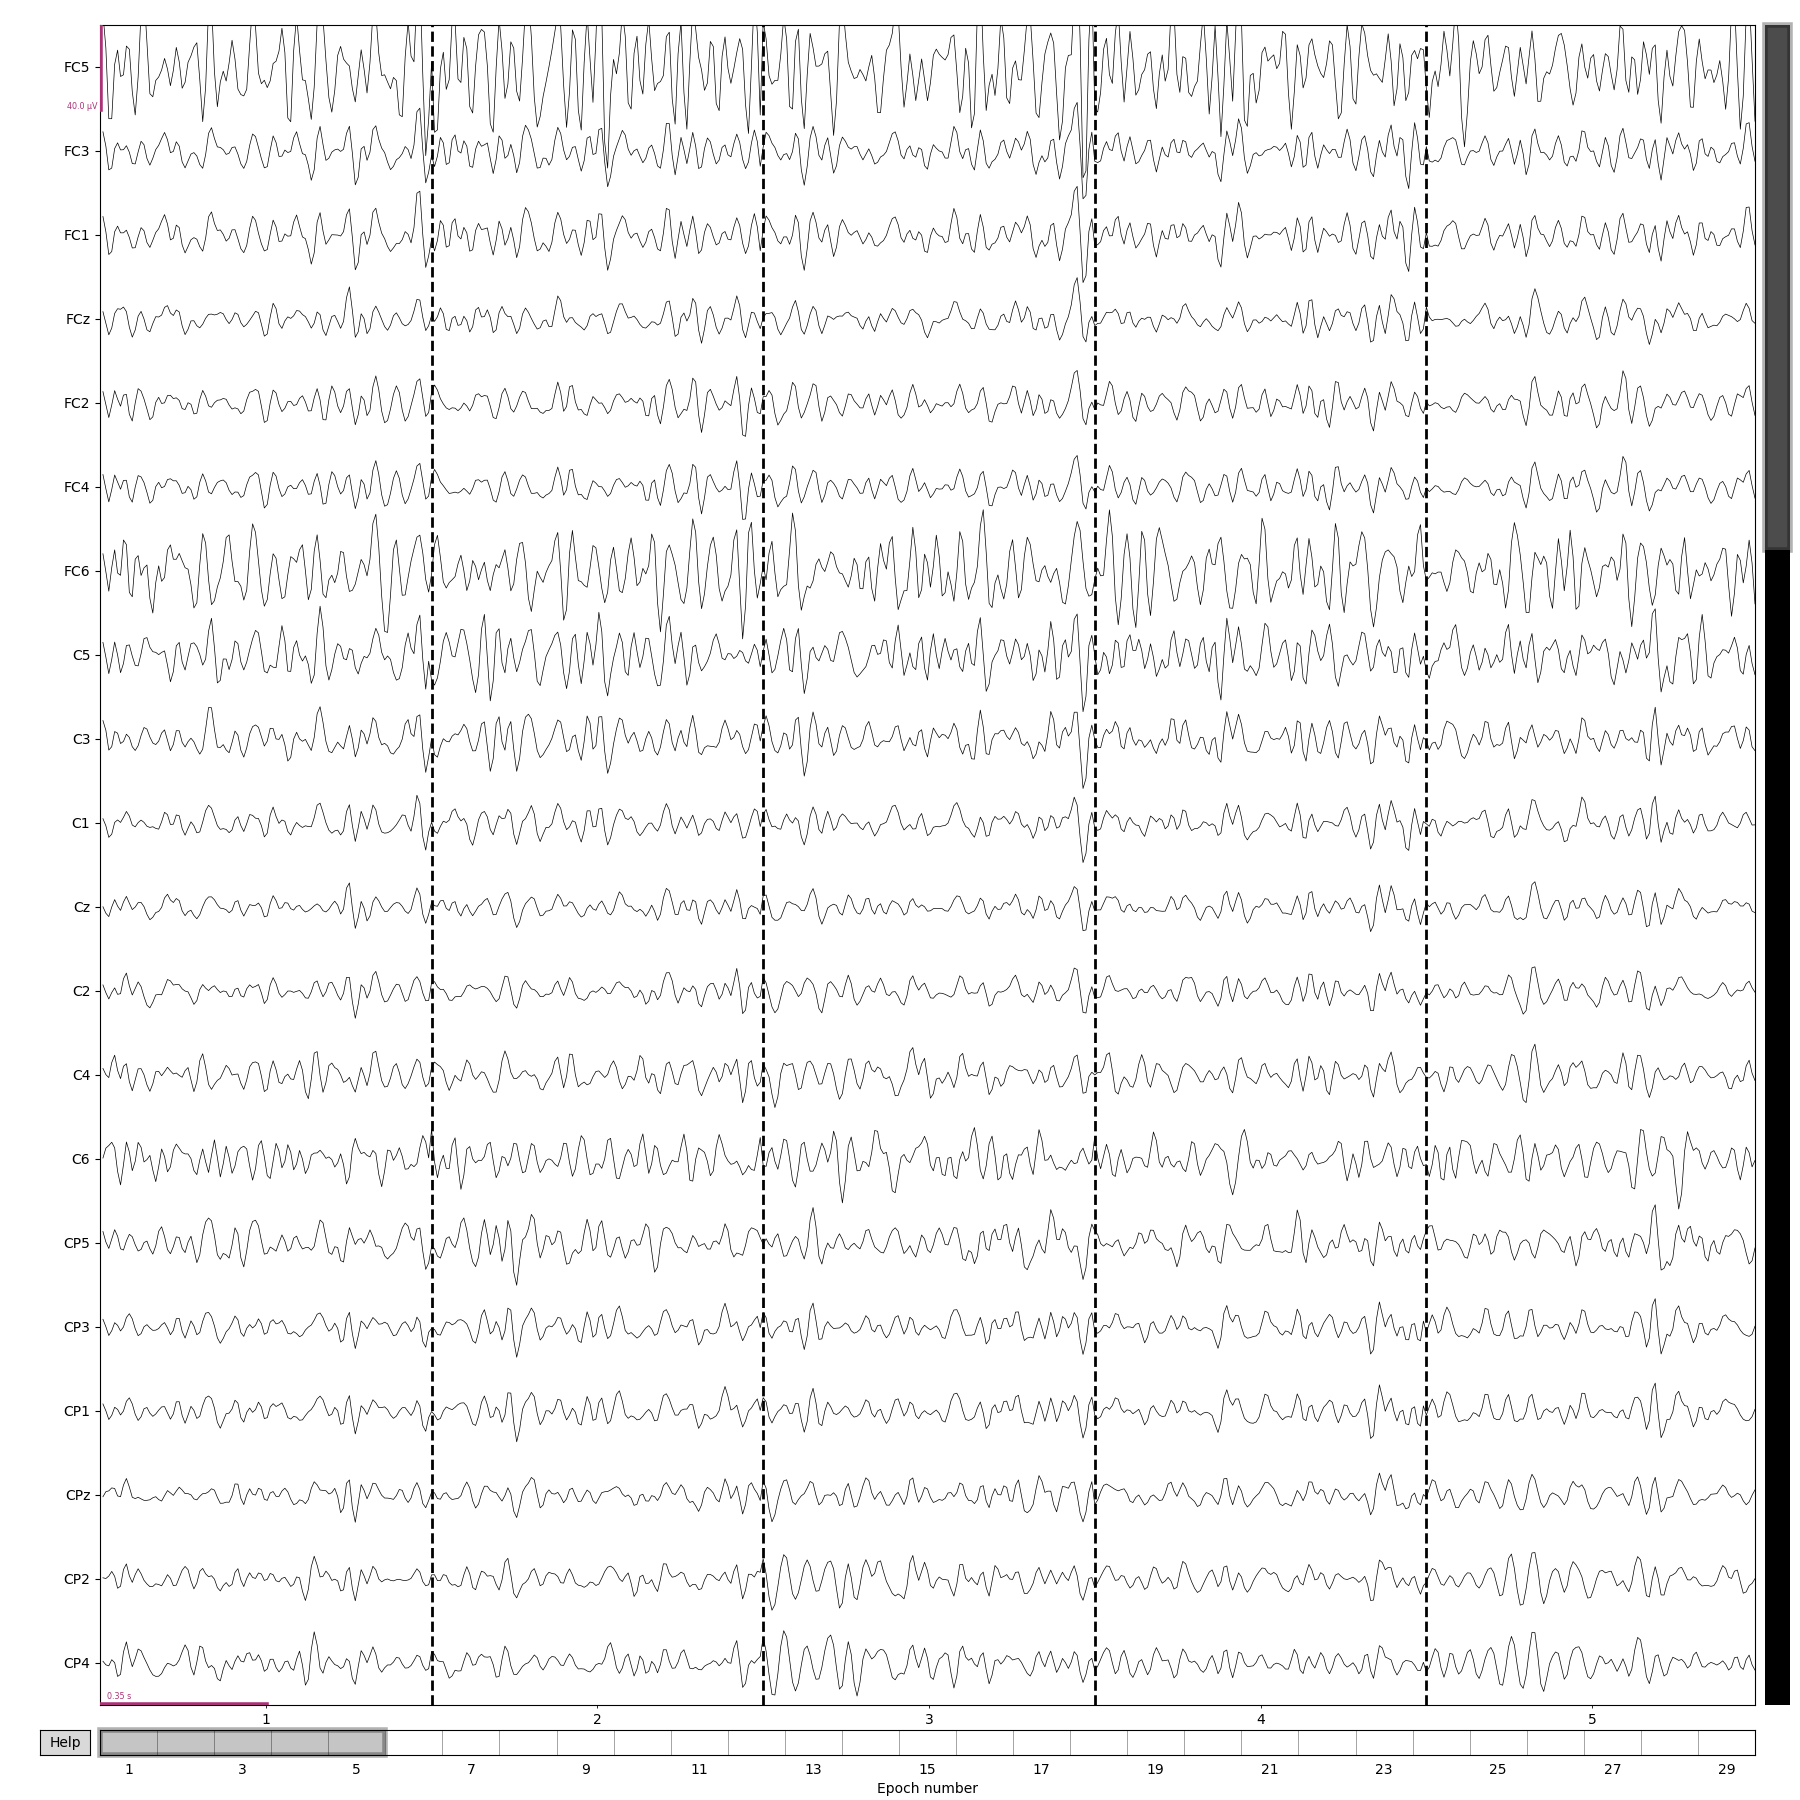
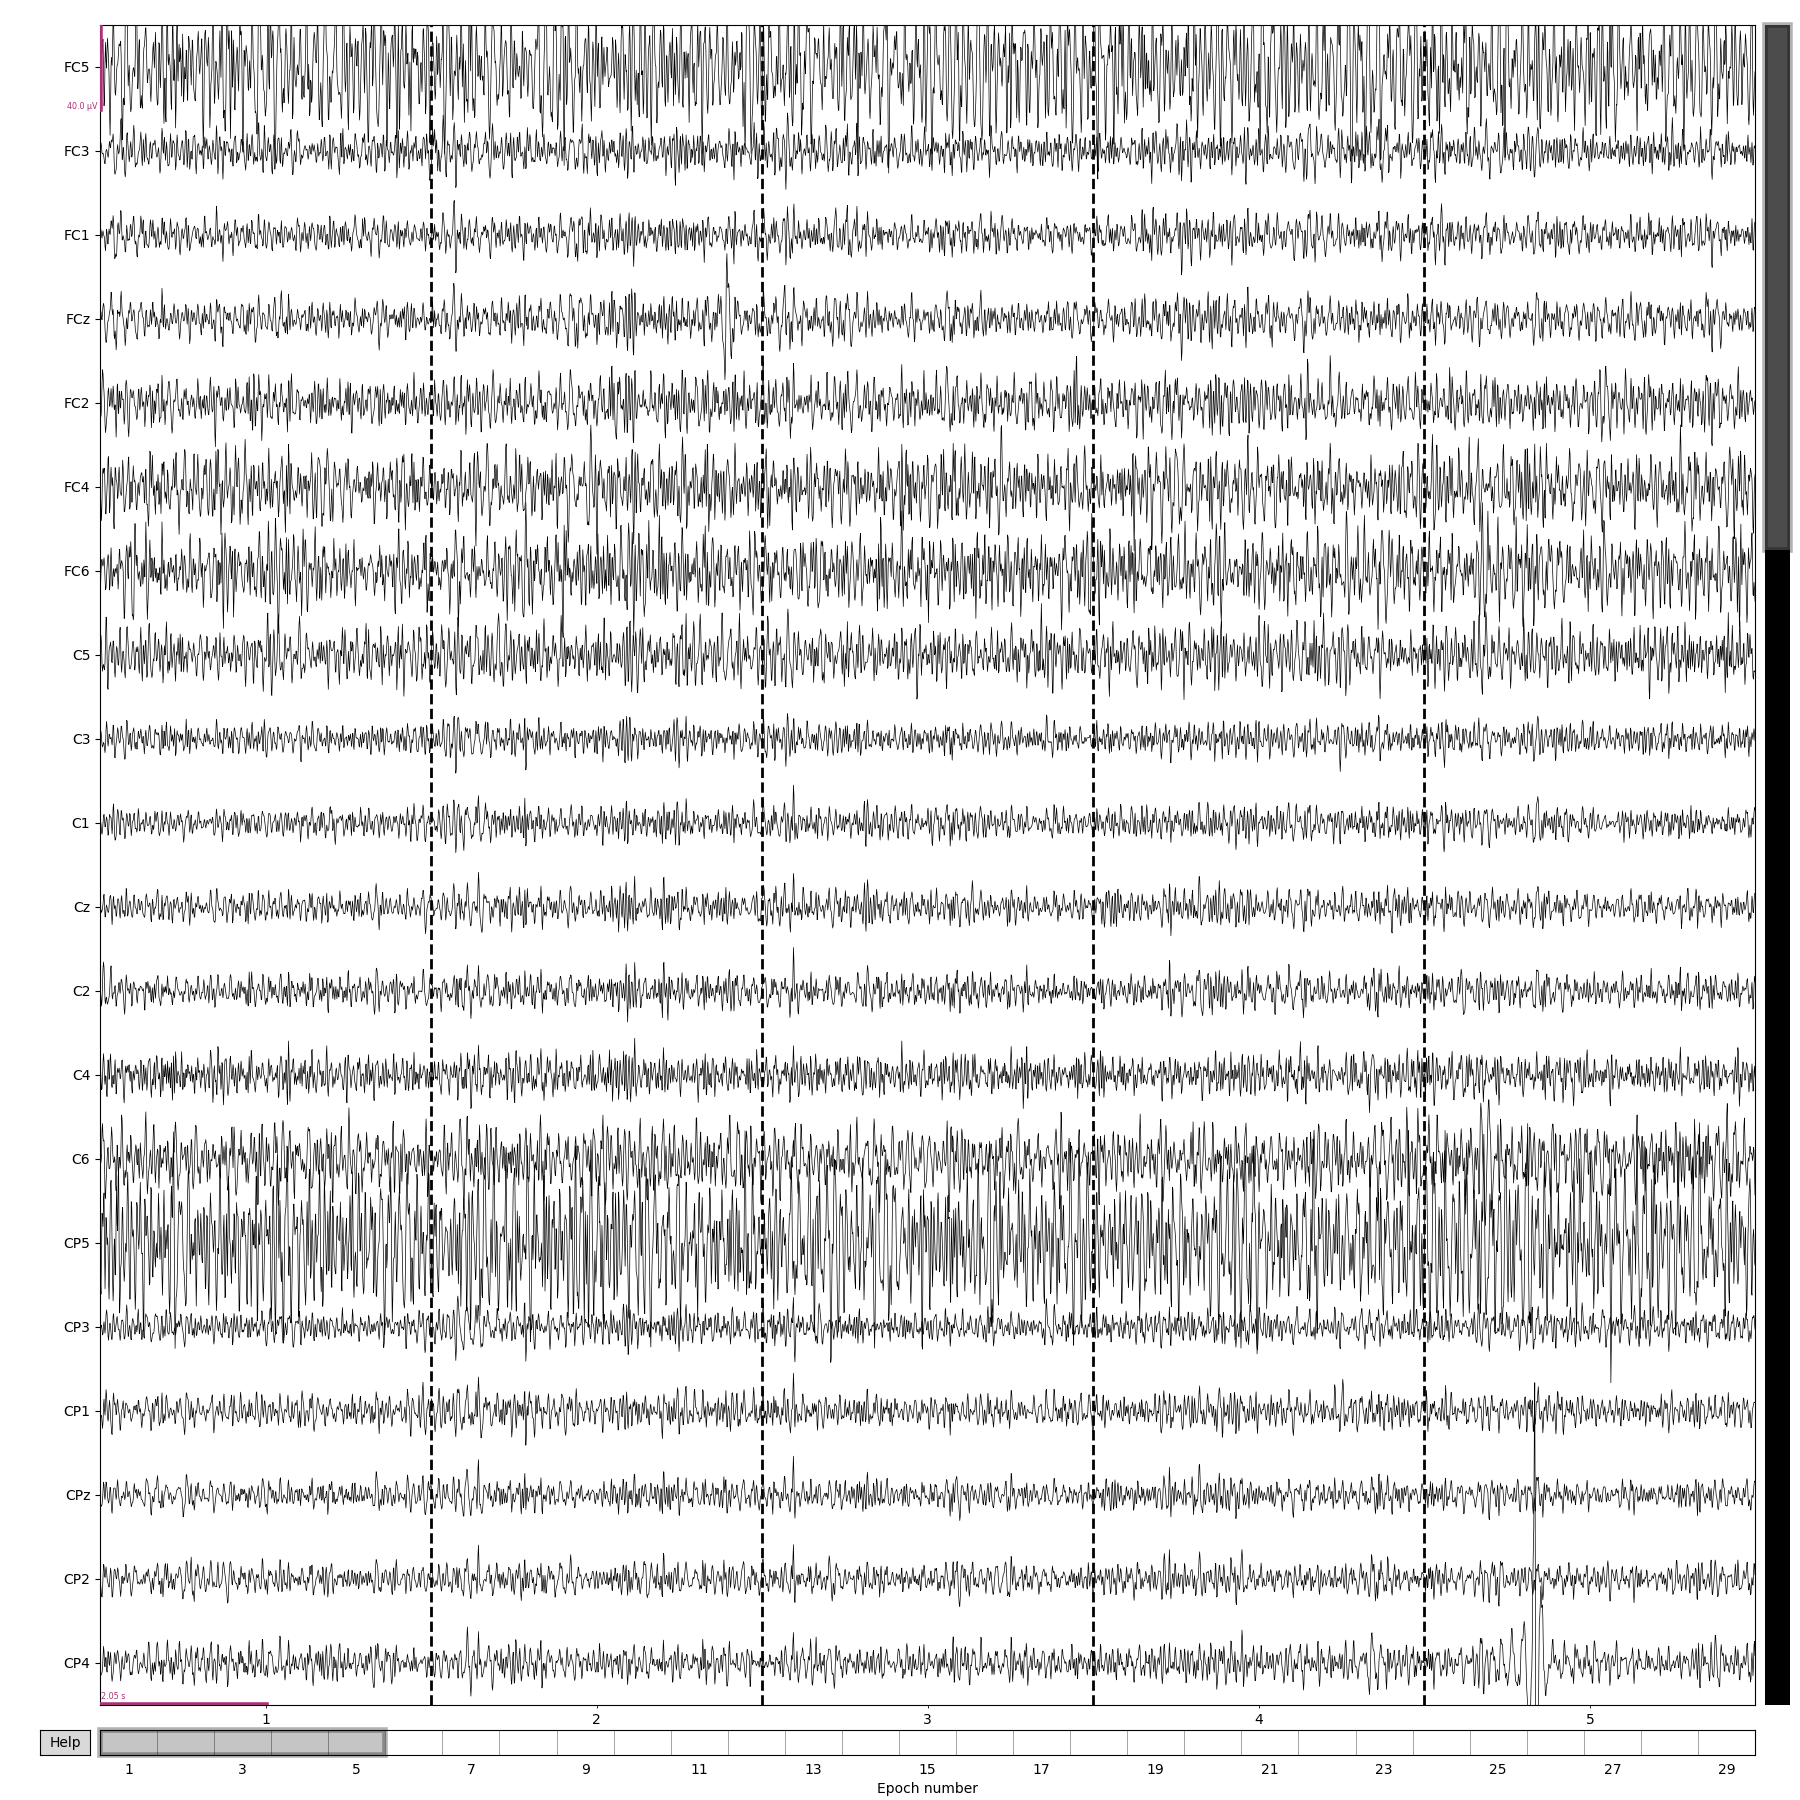
on pipeline

Changed region(s): [[0.0311, 0.0, 0.9956, 0.7467], [0.0622, 0.8711, 0.9956, 0.9333], [0.0622, 0.7778, 0.9644, 0.84]]

diff --git a/preprocess.py b/preprocess.py
@@ -1,13 +1,11 @@
-import matplotlib.pyplot as plt
 import numpy as np
 import mne
-
+from utils import open_subject, describe_data
 
 class DataLoader:
-    def __init__(self, file_path, inspect=False):
-        self.file_path = file_path
-        raw = mne.io.read_raw_edf(self.file_path, preload=True)
-        # print("raw: ", raw.info)
+    def __init__(self, subject, run, inspect=False):
+        raw = open_subject(subject, run)
+        self.raw = raw
         self.data = raw.get_data()
         self.channel_names = raw.ch_names
         self.sampling_rate = raw.info['sfreq']
@@ -16,27 +14,12 @@ class DataLoader:
         self.n_channels = len(self.channel_names)
         self.epochs = None
         self.events = None
-        self.y = None
-        if inspect:          
-            raw.plot(duration=60, n_channels=self.n_channels, proj=False, scalings='auto', remove_dc=True)
-            print("n_channels:", self.n_channels)
-            print("channel names:", self.channel_names)
-            print("sampling rate:", self.sampling_rate)
-            print("time shape:", self.time)
-            print("time shape 2:", raw.times)
-            print("data shape:", self.data.shape)
-            print("RAW ANOTAION: ", raw.annotations)
-            print("without montage", raw.info['chs'][0])
-            self.inspect_annotations(raw.annotations)
-        self.preprocess(self.data) # or raw ?
-        self.set_events_epochs()
+        self.labels = None
+        self.preprocess(raw)
+        self.set_events_epochs(raw)
         self.features = self.compute_frequency_domain()
-
-
-    def inspect_annotations(self, annotations):
-        print("Annotations:", annotations)
-        for annot in annotations:
-            print(f"  Onset: {annot['onset']}, Duration: {annot['duration']:.2f}s, Description: {annot['description']}")
+        if inspect:          
+            describe_data(self)
 
 
     def preprocess(self, raw):
@@ -46,36 +29,29 @@ class DataLoader:
         """
         raw.rename_channels({ch: ch.strip('.').upper().replace('Z', 'z').replace('FP', 'Fp') for ch in raw.ch_names})
         raw.set_montage('standard_1020')
-        fig = raw.plot_sensors(show_names=True, show=False)
-        plt.savefig("images/montage_plt.png")
-        plt.close(fig)
-        print("with montage ", raw.info['chs'][0])
 
         self.filtered = raw.copy()
         self.filtered.filter(l_freq=8, h_freq=40)
         self.filtered.notch_filter(freqs=60)
         self.filtered.set_eeg_reference('average')
-        print("Filtered data shape:", self.filtered.get_data().shape)
 
 
-    def set_events_epochs(self):
+    def set_events_epochs(self, raw):
         """
         Find events and extract epochs.
         """
         events, event_id = mne.events_from_annotations(raw)
-        print("Event IDs:", event_id)
-        print("First 5 events:", events[:5])
         epochs = mne.Epochs(
             self.filtered,
             events,
+            tmin=-0.1,
+            tmax=4.0,
             event_id=event_id,
             baseline=None,
             preload=True
         )
         self.epochs = epochs
-        print("Epochs info:", epochs.info)
-        self.y = epochs.events[:, 2]
-        print("Epochs data shape:", epochs.get_data().shape)
+        self.labels = epochs.events[:, 2]
 
 
     def compute_frequency_domain(self):
@@ -97,21 +73,19 @@ class DataLoader:
                 window='hann',
             )
             features.append(psd)
-            print("PSD shape:", psd.shape)
-            print("PSD:", psd)
 
         return np.array(features)
 
 
-def save_features_labels(self):
-    """
-    Save extracted features and labels to .npy files.
-    """
-    x = self.features
-    print("Extracted features shape:", x.shape)
-    y = self.y
-    np.save("data/X_train.npy", x)
-    np.save("data/y_train.npy", y)
+# def save_features_labels(self):
+#     """
+#     Save extracted features and labels to .npy files.
+#     """
+#     x = self.features
+#     y = self.y
+#     print("Extracted features shape:", x.shape, y.shape)
+#     np.save("data/X_train.npy", x)
+#     np.save("data/y_train.npy", y)
 
 
 def main():

diff --git a/data_analyse.py b/data_analyse.py
@@ -4,6 +4,7 @@ import numpy as np
 import argparse
 import matplotlib.pyplot as plt
 from preprocess import DataLoader
+from utils import open_subject
 
 
 os.makedirs("images", exist_ok=True)
@@ -58,14 +59,6 @@ def compute_spectrum(self, channel: int = 0, n_fft: int | None = None, plot: boo
     return freqs, psd
 
 
-def visualize(model):
-    plt.plot(model.time, model.data)
-    plt.xlabel('Time (s)')
-    plt.ylabel('Amplitude')
-    plt.title('EEG Signal - Channel 0')
-    plt.show()
-
-
 def visualize_epochs(model, n_epochs):
     """
     Plots the epochs of the EEG data.
@@ -82,9 +75,17 @@ def plot_eeg(eeg_data, name):
     Plot EEG data before and after filtering.
     """
     fig = eeg_data.plot(n_channels=10, duration=8, scalings='auto', show=False)
-    plt.savefig("images/{name}_plt.png")
-    plt.close(fig)
+    plt.savefig(f"images/{name}_plt.png")
   
+
+def visualize_montage(raw):
+    """
+    Visualize the EEG montage (64 sensor layout).
+    """
+    fig = raw.plot_sensors(show_names=True, show=False)
+    plt.savefig("images/montage_plt.png")
+    plt.close(fig)
+
 
 def main():
     # model = DataLoader("/home/gkrusta/tpv/S002R04.edf")
@@ -92,15 +93,15 @@ def main():
     # model = DataLoader("/sgoinfre/students/gkrusta/tpv/S002R04.edf")
     parser = argparse.ArgumentParser(description="Explore EEG dataset, visulize it raw, then filter and parse it"
                                                   "and visulize it again for comparison.")
-    parser.add_argument("subject", type=str, help="Path to the subject's EEG data file.")
-    parser.add_argument("run", type=str, help="One of the 14 runs.")
+    parser.add_argument("subject", type=int, choices=range(1, 110), help="Path to the subject's EEG data file. ")
+    parser.add_argument("run", type=int, choices=range(1, 15), help="One of the 14 runs.")
+    parser.add_argument("--inspect", "-i", action="store_true", help="Whether to inspect the raw data plot upon loading.")
     args = parser.parse_args()
-    model = DataLoader(args.subject, args.run)
-    plot_eeg(model.data, "raw")
+    model = DataLoader(args.subject, args.run, inspect=args.inspect)
+    plot_eeg(model.raw, "raw")
     plot_eeg(model.filtered, "filtered")
-    visualize(model)
     visualize_epochs(model, n_epochs=5)
-
+    visualize_montage(model.raw)
 
 if __name__ == "__main__":
     main()

diff --git a/utils.py b/utils.py
@@ -1,3 +1,8 @@
+from pyexpat import model
+import mne
+import numpy as np
+
+
 EXPERIMENTS = {
     'both_hands_vs_feet': {
         'experments': [5, 9, 13],
@@ -28,3 +33,46 @@ EXPERIMENTS = {
 USEFULL_CHANNELS = ['Cz', 'FCz', 'CPz', 'C3', 'C4', 'FC3', 'FC4', 'CP3', 'CP4']
 
 # BAD_SUBJECTS = []
+
+
+def open_subject(subject, run):
+    """
+    Format subject and run IDs to have leading zeros.
+    """
+    try:
+        subject_id = str(subject).zfill(3)
+        run_id = str(run).zfill(2)
+        file_path = f"/sgoinfre/students/gkrusta/physionet.org/files/eegmmidb/1.0.0/S{subject_id}/S{subject_id}R{run_id}.edf"
+        print("Opening subject:", file_path)
+        raw = mne.io.read_raw_edf(file_path, preload=True)
+        data = raw.get_data()
+        print("raw: ", raw.info)
+        print("data: ",  data.shape)
+        return raw
+    except Exception as e:
+        print(f"Error opening subject {subject}, run {run}: {e}")
+        exit(1)
+
+
+def describe_data(model):
+    print("Data shape:", model.data.shape)
+    print("Data stats: min =", np.min(model.data), ", max =", np.max(model.data), ", mean =", np.mean(model.data), ", std =", np.std(model.data))
+
+    # model.raw.plot(duration=60, n_channels=model.n_channels, proj=False, scalings='auto', remove_dc=True)
+    
+    print("n_channels:", model.n_channels)
+    print("channel names:", model.channel_names)
+    print("sampling rate:", model.sampling_rate)
+    print("time shape:", model.time)
+    print("time shape 2:", model.raw.times)
+    print("data shape:", model.data.shape)
+    print("RAW ANOTAION: ", model.raw.annotations)
+    print("Annotations:", model.raw.annotations)
+
+    for annot in model.raw.annotations:
+        print(f"  Onset: {annot['onset']}, Duration: {annot['duration']:.2f}s, Description: {annot['description']}")
+    
+    print("Features:", model.features.shape)
+    print("Labels:", model.labels.shape)
+    print("Epochs data shape:", model.epochs.get_data().shape)
+    print("Epochs info:", model.epochs.info)

diff --git a/mybci.py b/mybci.py
@@ -16,11 +16,10 @@ from preprocess import DataLoader
 class ClassifierBCI:
     def __init__(self, subject=None, run=None, task=None):
         if subject and run and task:
-            self.subject = subject.zfill(3)
-            self.run = run.zfill(2)
-            self.data = DataLoader("/sgoinfre/students/gkrusta/physionet.org/files/eegmmidb/1.0.0/S{self.subject}/S{self.subject}R{self.run}.edf")
-            features = np.load("data/X_train.npy")
-            labels = np.load("data/y_train.npy")
+            model = DataLoader(subject, run)
+            # maybe remove np save from save features function
+            features = model.features
+            labels = model.labels
             self.X_train, self.X_test, self.y_train, self.y_test = train_test_split(
                 features,
                 labels,
@@ -80,6 +79,7 @@ def main():
     parser.add_argument("subject", type=str, help="Path to the subject's EEG data file.")
     parser.add_argument("run", type=str, help="One of the 14 runs.")
     parser.add_argument("task", type=str, choices=["train", "predict"], nargs='?', help="Train or predict.")
+    parser.add_argument("model", type=str, nargs='?', help="Type of model to train. Default is LDA.", default="LDA")
     args = parser.parse_args()
 
     features = np.load("data/X_train.npy")

diff --git a/README.md b/README.md
@@ -3,7 +3,16 @@
 /home/gkrusta/tpv/.venv/bin/python3 pca.py
 
 
-# Prepeare data 
+# Prepeare data
+
+dataset description (optional)
+
+set channels names
+filter 8-40
+notch filter
+set events
+find epochs
+
 ```
 python3 preprocess.py
 ```
@@ -17,3 +26,11 @@ frequency filtering, noise removal and averaging amoung eeg signals is applied.
 ![img](images/fft_channel_after.png)
 
 # Train model
+LDA
+Random Forest
+Logistic regression
+
+
+Best model
+
+# Predict
